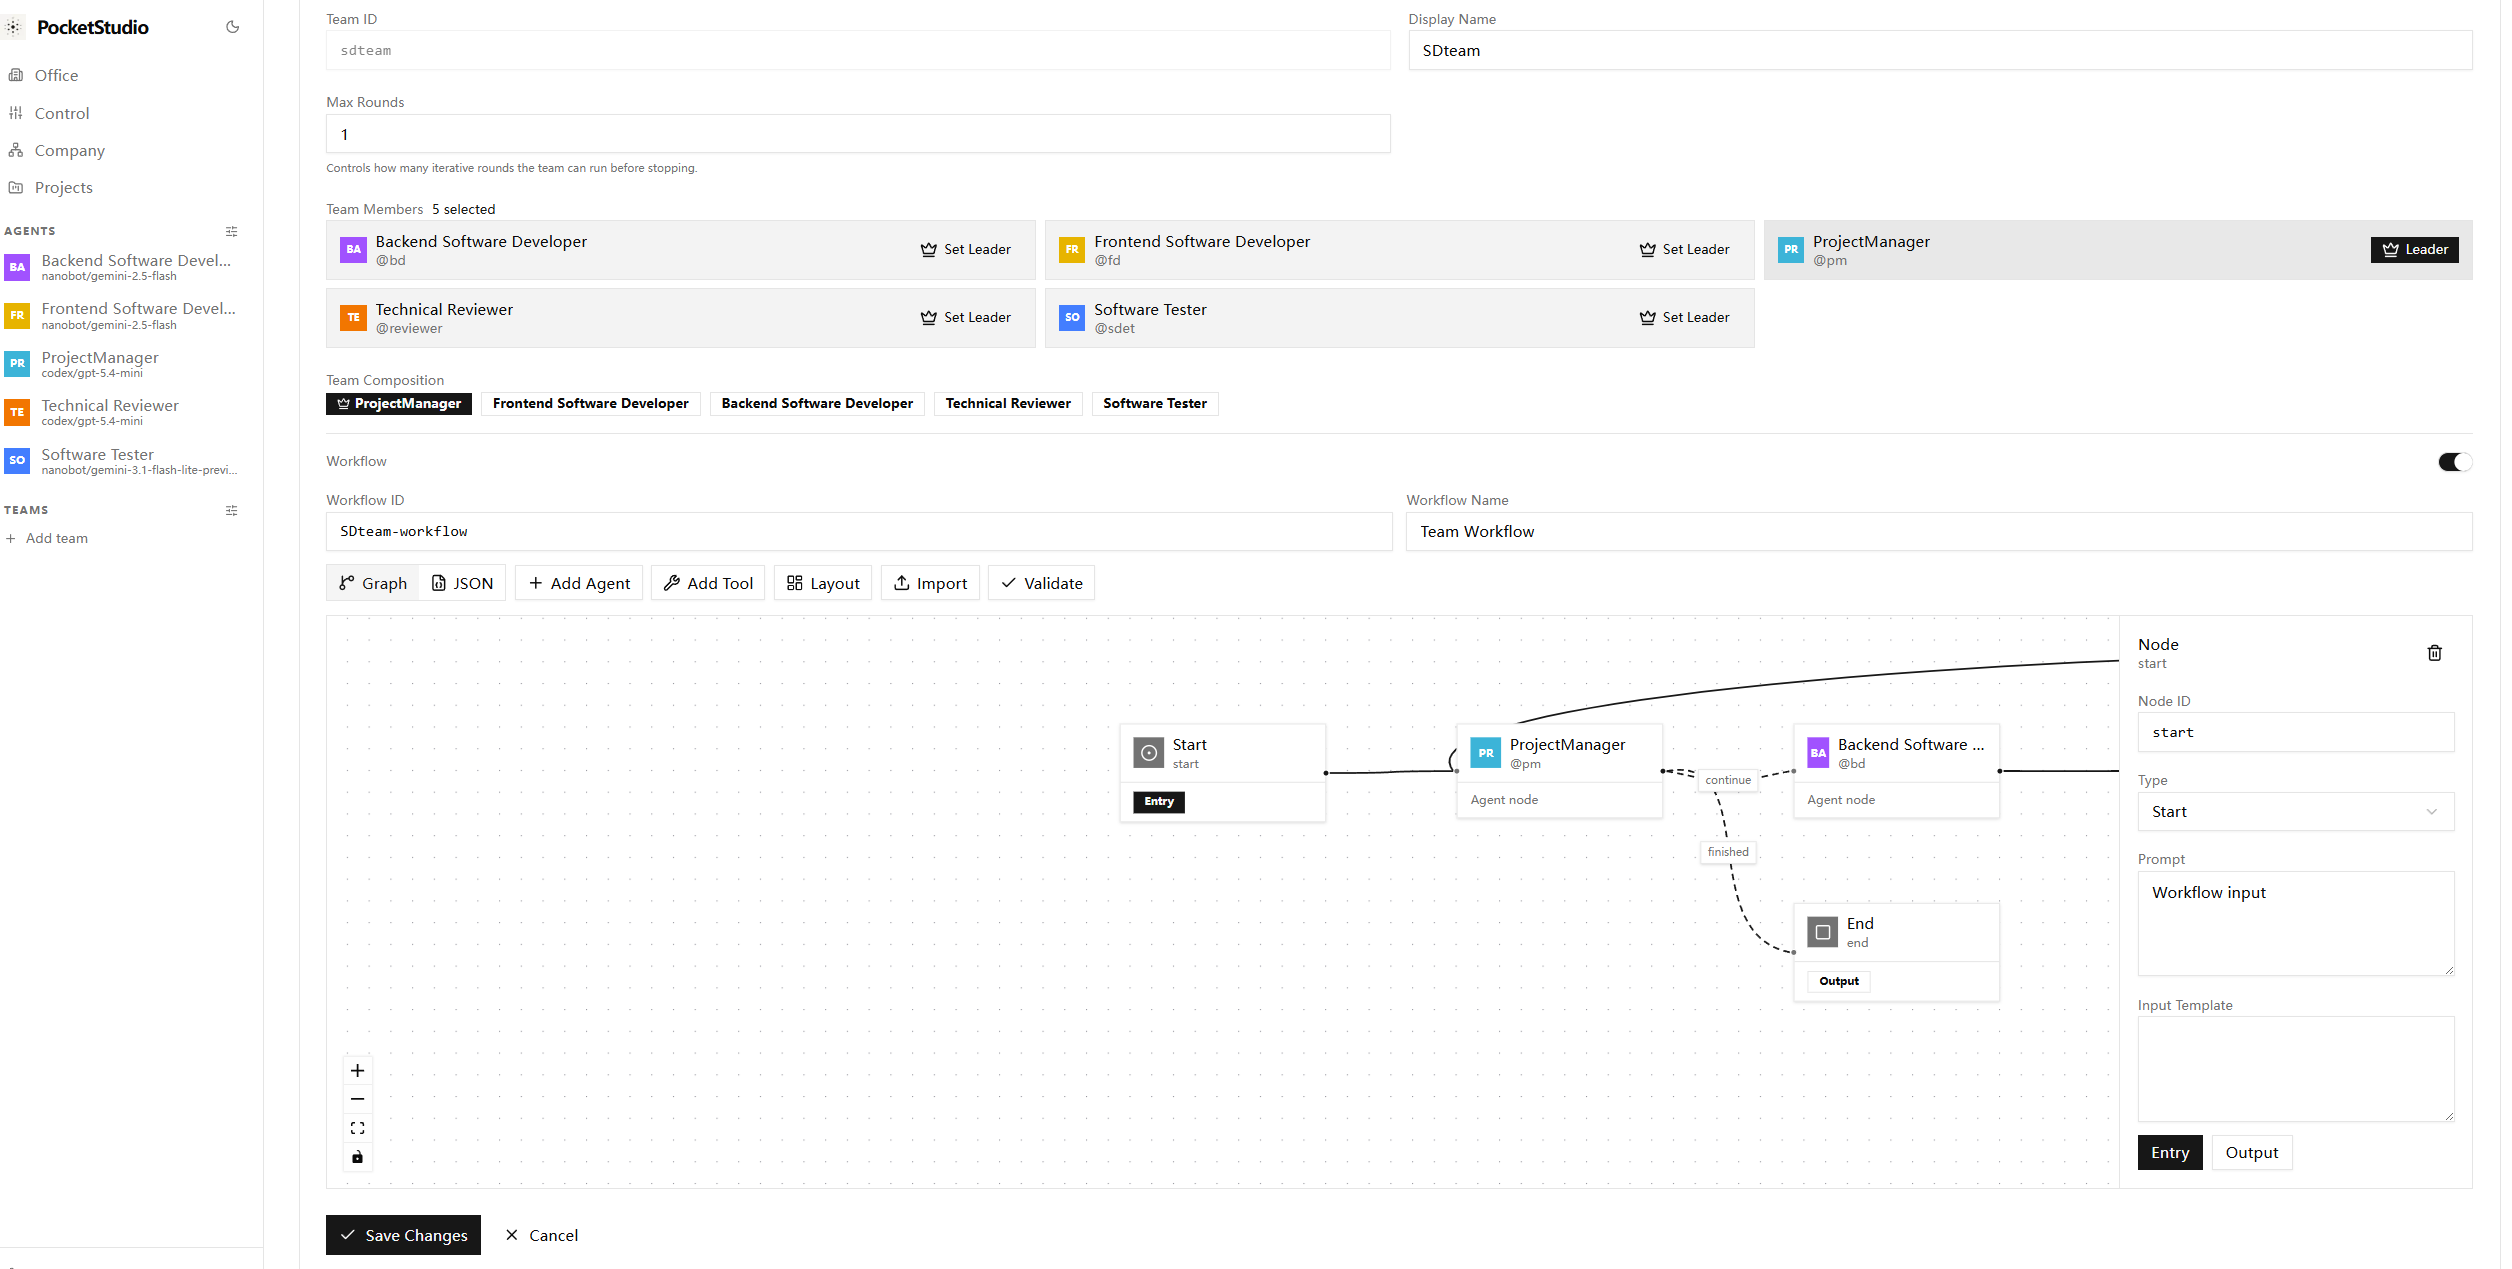
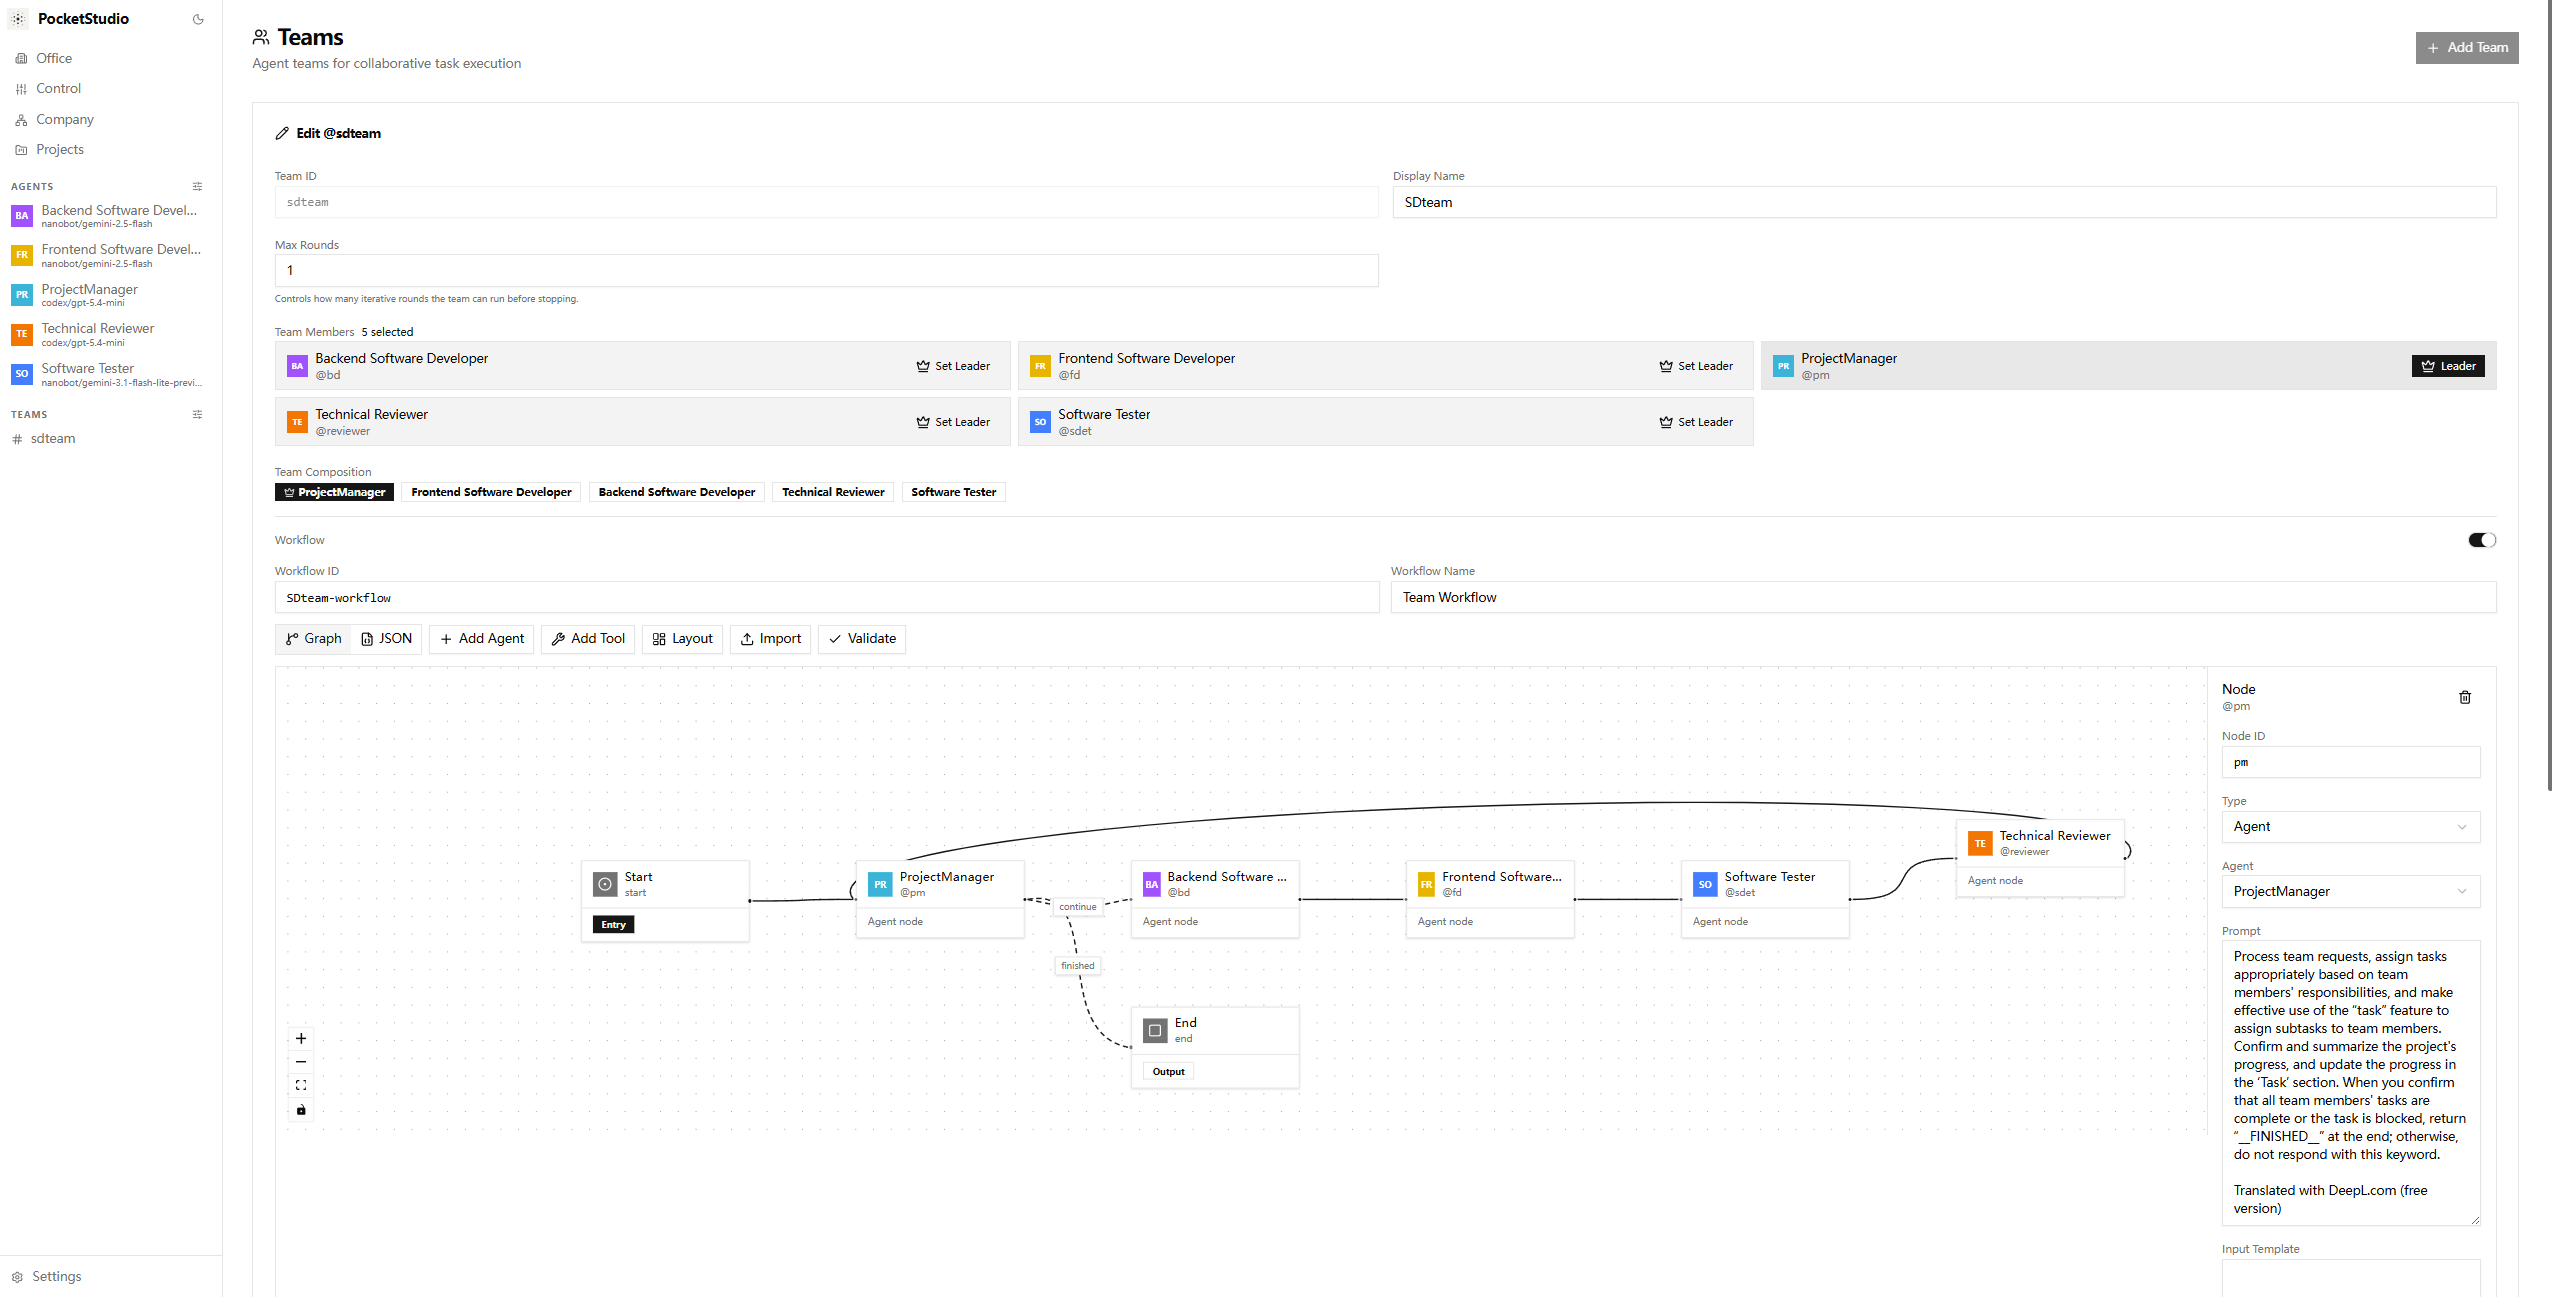
feat: update README with new example and task description

diff --git a/README.md b/README.md
@@ -61,6 +61,34 @@ All current product screenshots and workflow visuals are collected here for quic
   </tr>
 </table>
 
+### Example
+**This is a webpage generated with a single click using this platform.**
+![Example](docs/assets/template.png)
+
+https://atomchen0425.github.io/AI_Generate_Project/
+
+
+**Task description:**
+```
+The project root directory for this photography portfolio website is explicitly declared as:`D:\Coding\TestFolder\Photograph`
+
+Build a modern, minimalist responsive photography portfolio website.
+### Design System & Aesthetics:
+- Vibe: Premium, cinematic, clean, gallery-like, dark/light theme (default to dark theme to make photos pop).
+- Colors: Pure dark background (#0D0D0D), muted white text (#E5E5E5), and subtle accents.
+- Typography: Clean sans-serif for UI, elegant serif/display font for headers (e.g., Playfair Display or Inter).
+- Spacing: Generous whitespace, thin clean borders, masonry-grid/infinite-scroll layout for galleries.
+
+### Site Structure & Routes:
+1. / (Home/Gallery): A masonry grid layout displaying featured photography works. Images should have a subtle hover effect (e.g., slight scale-up, reveal photo title/metadata like focal length/aperture). Clicking a photo opens a beautiful full-screen immersive lightbox modal.
+2. /about: A clean, editorial-style "About Me" page split into two columns: one for a professional portrait, the other for an artist statement, tech/gear stack, and contact links.
+3. /collections (or Categories): Filterable tabs (e.g., Street, Portrait, Cinematic, Landscape) that smoothly re-arrange the image grid using animations (Framer Motion preferred).
+
+Please provide the structural layout and the main page.tsx code with smooth transition animations.
+
+
+```
+
 ## Community
 
 This repository is a Python/FastAPI implementation inspired by [TinyAGI](https://github.com/TinyAGI/tinyagi). For upstream TinyAGI community links, see the [TinyAGI](https://github.com/TinyAGI/tinyagi) project.
@@ -397,33 +425,6 @@ pocketstudio send "@team:dev Work on PROJECT_ID tasks"
 ![Project view](docs/assets/project.png)
 ![Completed work view](docs/assets/Done.png)
 
-#### Example
-**This is a webpage generated with a single click using this platform.**
-![Example](docs/assets/template.png)
-
-https://atomchen0425.github.io/AI_Generate_Project/
-
-
-**Task description:**
-```
-The project root directory for this photography portfolio website is explicitly declared as:`D:\Coding\TestFolder\Photograph`
-
-Build a modern, minimalist responsive photography portfolio website.
-### Design System & Aesthetics:
-- Vibe: Premium, cinematic, clean, gallery-like, dark/light theme (default to dark theme to make photos pop).
-- Colors: Pure dark background (#0D0D0D), muted white text (#E5E5E5), and subtle accents.
-- Typography: Clean sans-serif for UI, elegant serif/display font for headers (e.g., Playfair Display or Inter).
-- Spacing: Generous whitespace, thin clean borders, masonry-grid/infinite-scroll layout for galleries.
-
-### Site Structure & Routes:
-1. / (Home/Gallery): A masonry grid layout displaying featured photography works. Images should have a subtle hover effect (e.g., slight scale-up, reveal photo title/metadata like focal length/aperture). Clicking a photo opens a beautiful full-screen immersive lightbox modal.
-2. /about: A clean, editorial-style "About Me" page split into two columns: one for a professional portrait, the other for an artist statement, tech/gear stack, and contact links.
-3. /collections (or Categories): Filterable tabs (e.g., Street, Portrait, Cinematic, Landscape) that smoothly re-arrange the image grid using animations (Framer Motion preferred).
-
-Please provide the structural layout and the main page.tsx code with smooth transition animations.
-
-
-```
 
 
 ## 🗺️ Roadmap